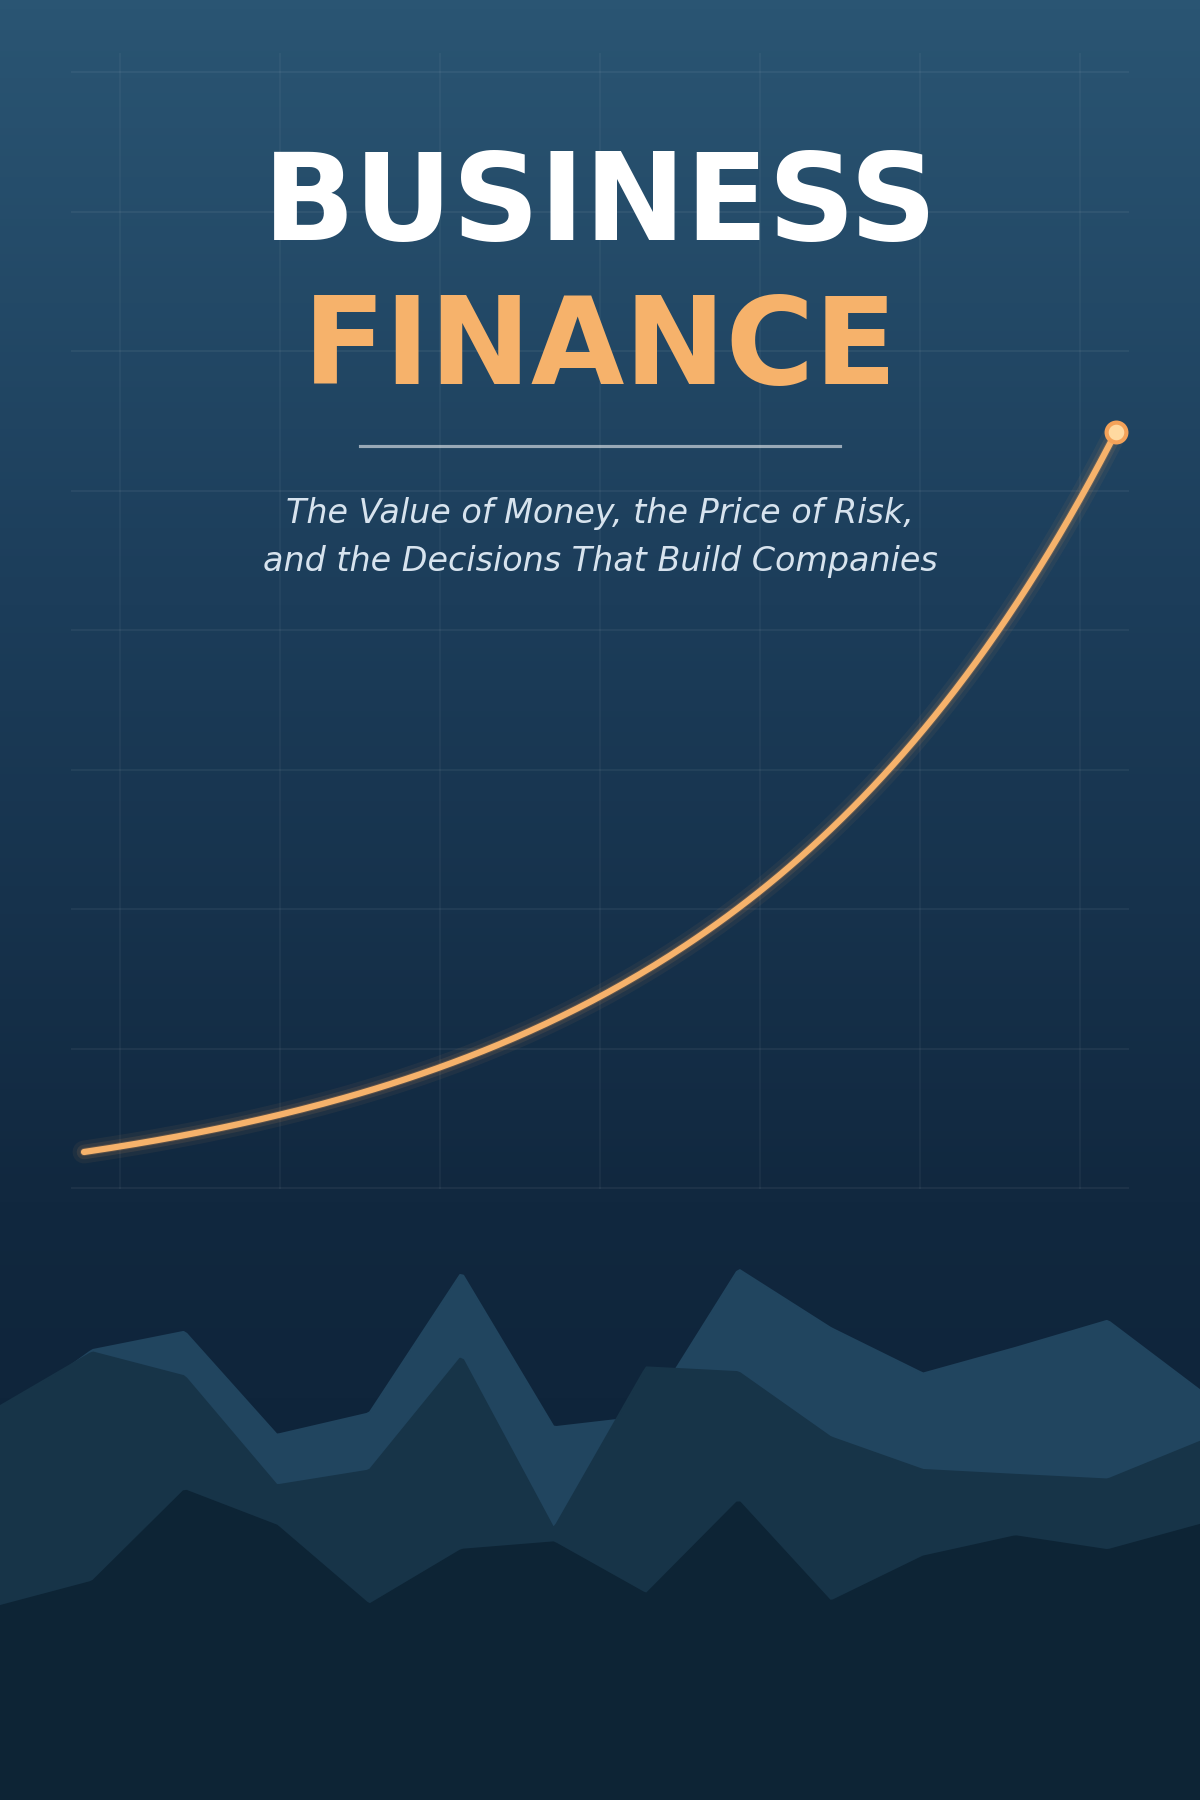
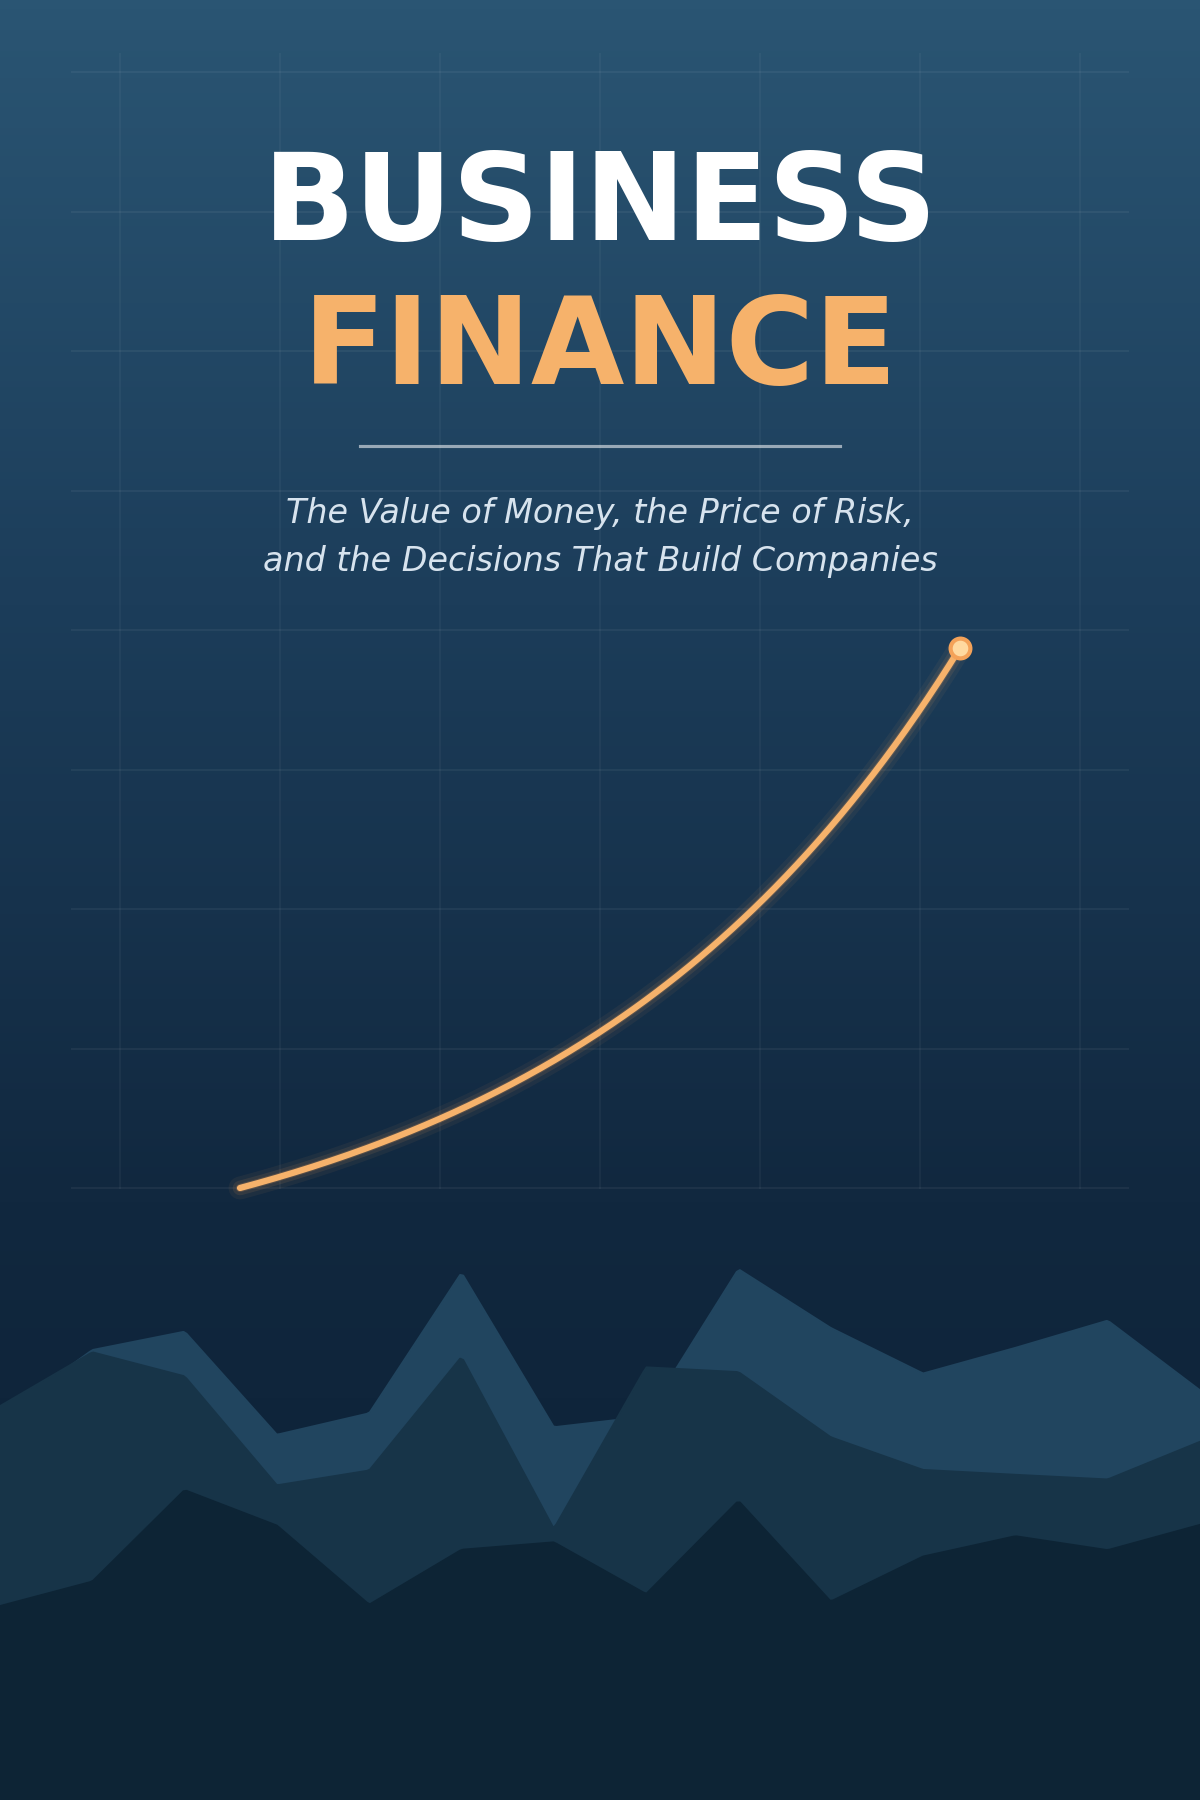
Built site for gh-pages

diff --git a/blog/index.html b/blog/index.html
@@ -402,7 +402,7 @@ window.Quarto = {
 
 <div class="quarto-listing quarto-listing-container-default" id="listing-listing">
 <div class="list quarto-listing-default">
-<div class="quarto-post image-right" data-index="0" data-categories="ZmluYW5jZSUyQ0lQTyUyQ0FJ" data-listing-date-sort="1779253200000" data-listing-file-modified-sort="1779340058000" data-listing-date-modified-sort="NaN" data-listing-reading-time-sort="12" data-listing-word-count-sort="2276">
+<div class="quarto-post image-right" data-index="0" data-categories="ZmluYW5jZSUyQ0lQTyUyQ0FJ" data-listing-date-sort="1779253200000" data-listing-file-modified-sort="1779340058649" data-listing-date-modified-sort="NaN" data-listing-reading-time-sort="12" data-listing-word-count-sort="2276">
 <div class="thumbnail"><a href="../blog/posts/spacex-s1-magazine/index.html" class="no-external">
 
 <img loading="lazy" src="../blog/posts/spacex-s1-magazine/images/space-stats.jpg" class="thumbnail-image">
@@ -436,10 +436,10 @@ He Ren
 </a>
 </div>
 </div>
-<div class="quarto-post image-right" data-index="1" data-categories="ZmluYW5jZSUyQ3RlYWNoaW5n" data-listing-date-sort="1778821200000" data-listing-file-modified-sort="1778882698000" data-listing-date-modified-sort="NaN" data-listing-reading-time-sort="19" data-listing-word-count-sort="3703">
+<div class="quarto-post image-right" data-index="1" data-categories="ZmluYW5jZSUyQ3RlYWNoaW5n" data-listing-date-sort="1778821200000" data-listing-file-modified-sort="1778882799906" data-listing-date-modified-sort="NaN" data-listing-reading-time-sort="19" data-listing-word-count-sort="3703">
 <div class="thumbnail"><a href="../blog/posts/tvm-ba-ii-plus-and-excel/index.html" class="no-external">
 
-<!-- img(9CEB782EFEE6)[progressive=false, height=, lazy=true]:listing:blog/posts/tvm-ba-ii-plus-and-excel/index.html -->
+<div class="listing-item-img-placeholder card-img-top" >&nbsp;</div>
 
 </a></div>
 <div class="body">
@@ -468,10 +468,10 @@ He Ren
 </a>
 </div>
 </div>
-<div class="quarto-post image-right" data-index="2" data-categories="QUklMkNkYXRhJTJDZmluYW5jZQ==" data-listing-date-sort="1778475600000" data-listing-file-modified-sort="1778536560000" data-listing-date-modified-sort="NaN" data-listing-reading-time-sort="4" data-listing-word-count-sort="644">
+<div class="quarto-post image-right" data-index="2" data-categories="QUklMkNkYXRhJTJDZmluYW5jZQ==" data-listing-date-sort="1778475600000" data-listing-file-modified-sort="1778536560816" data-listing-date-modified-sort="NaN" data-listing-reading-time-sort="4" data-listing-word-count-sort="644">
 <div class="thumbnail"><a href="../blog/posts/edgar-filings-to-structured-database/index.html" class="no-external">
 
-<!-- img(9CEB782EFEE6)[progressive=false, height=, lazy=true]:listing:blog/posts/edgar-filings-to-structured-database/index.html -->
+<div class="listing-item-img-placeholder card-img-top" >&nbsp;</div>
 
 </a></div>
 <div class="body">
@@ -502,10 +502,10 @@ He Ren
 </a>
 </div>
 </div>
-<div class="quarto-post image-right" data-index="3" data-categories="QUklMkNkYXRhJTJDZWNvbm9taWNz" data-listing-date-sort="1778302800000" data-listing-file-modified-sort="1778364091000" data-listing-date-modified-sort="NaN" data-listing-reading-time-sort="4" data-listing-word-count-sort="772">
+<div class="quarto-post image-right" data-index="3" data-categories="QUklMkNkYXRhJTJDZWNvbm9taWNz" data-listing-date-sort="1778302800000" data-listing-file-modified-sort="1778364091728" data-listing-date-modified-sort="NaN" data-listing-reading-time-sort="4" data-listing-word-count-sort="772">
 <div class="thumbnail"><a href="../blog/posts/large-datasets-and-structured-databases/index.html" class="no-external">
 
-<!-- img(9CEB782EFEE6)[progressive=false, height=, lazy=true]:listing:blog/posts/large-datasets-and-structured-databases/index.html -->
+<div class="listing-item-img-placeholder card-img-top" >&nbsp;</div>
 
 </a></div>
 <div class="body">